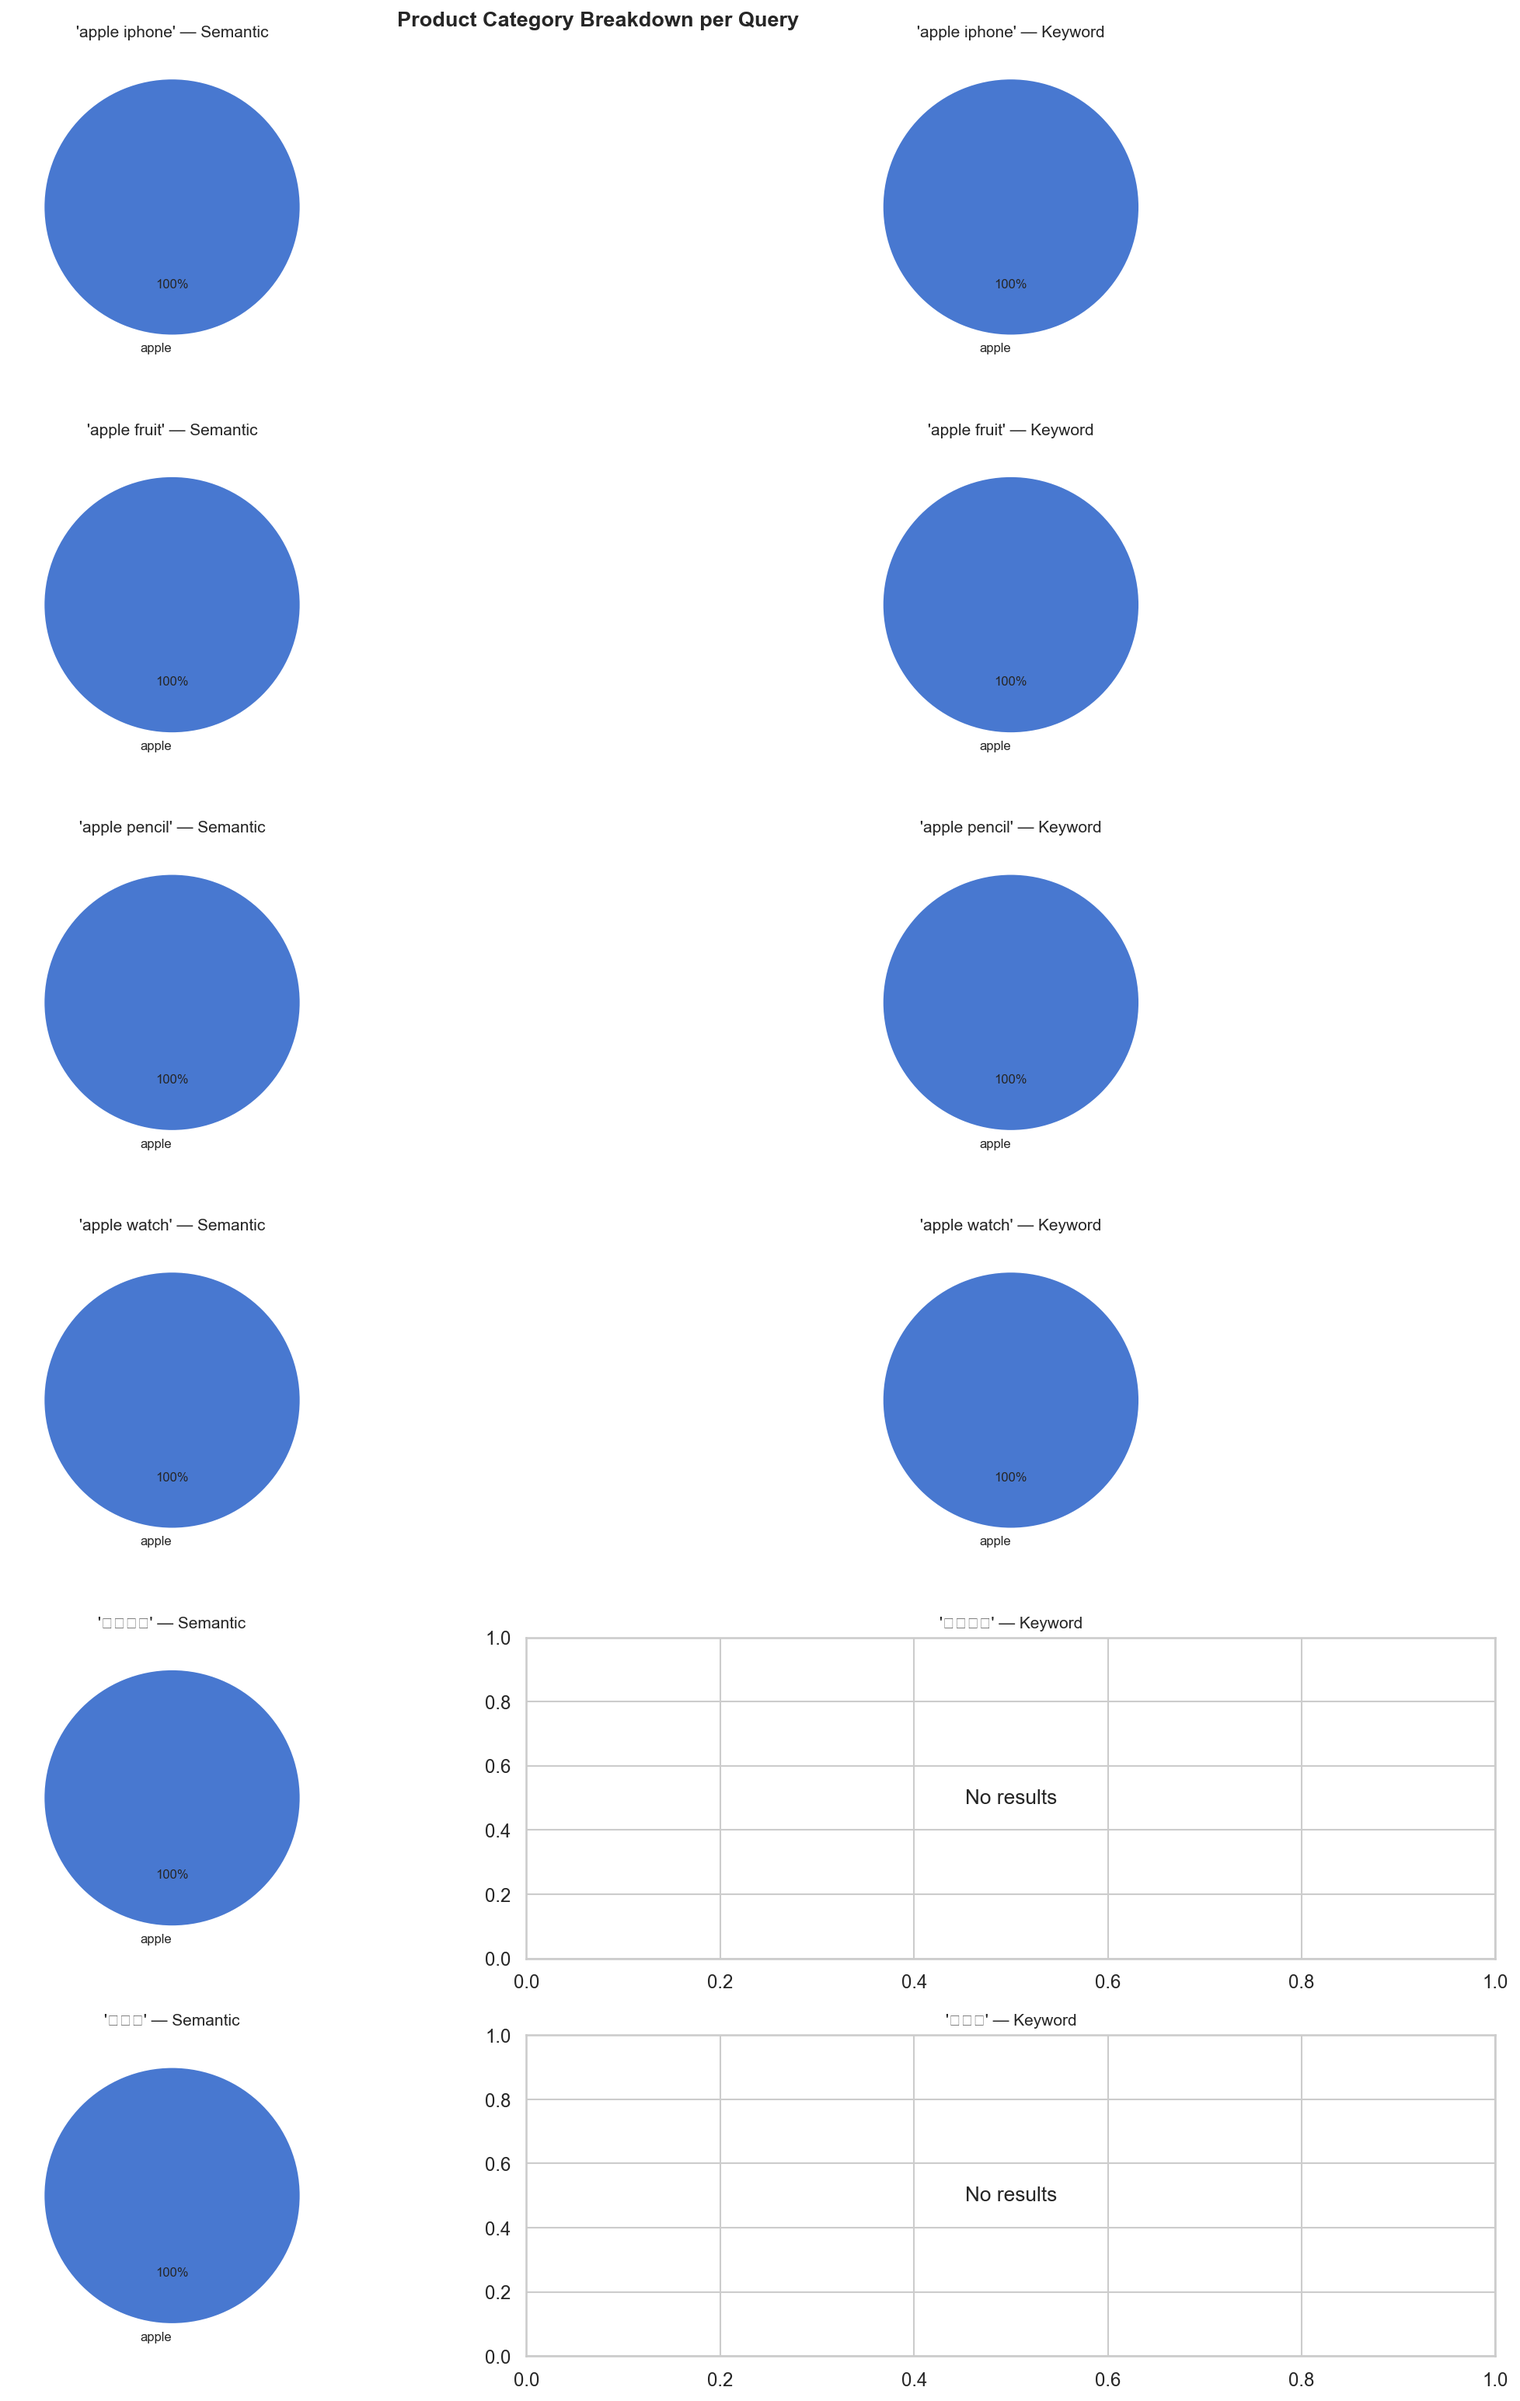
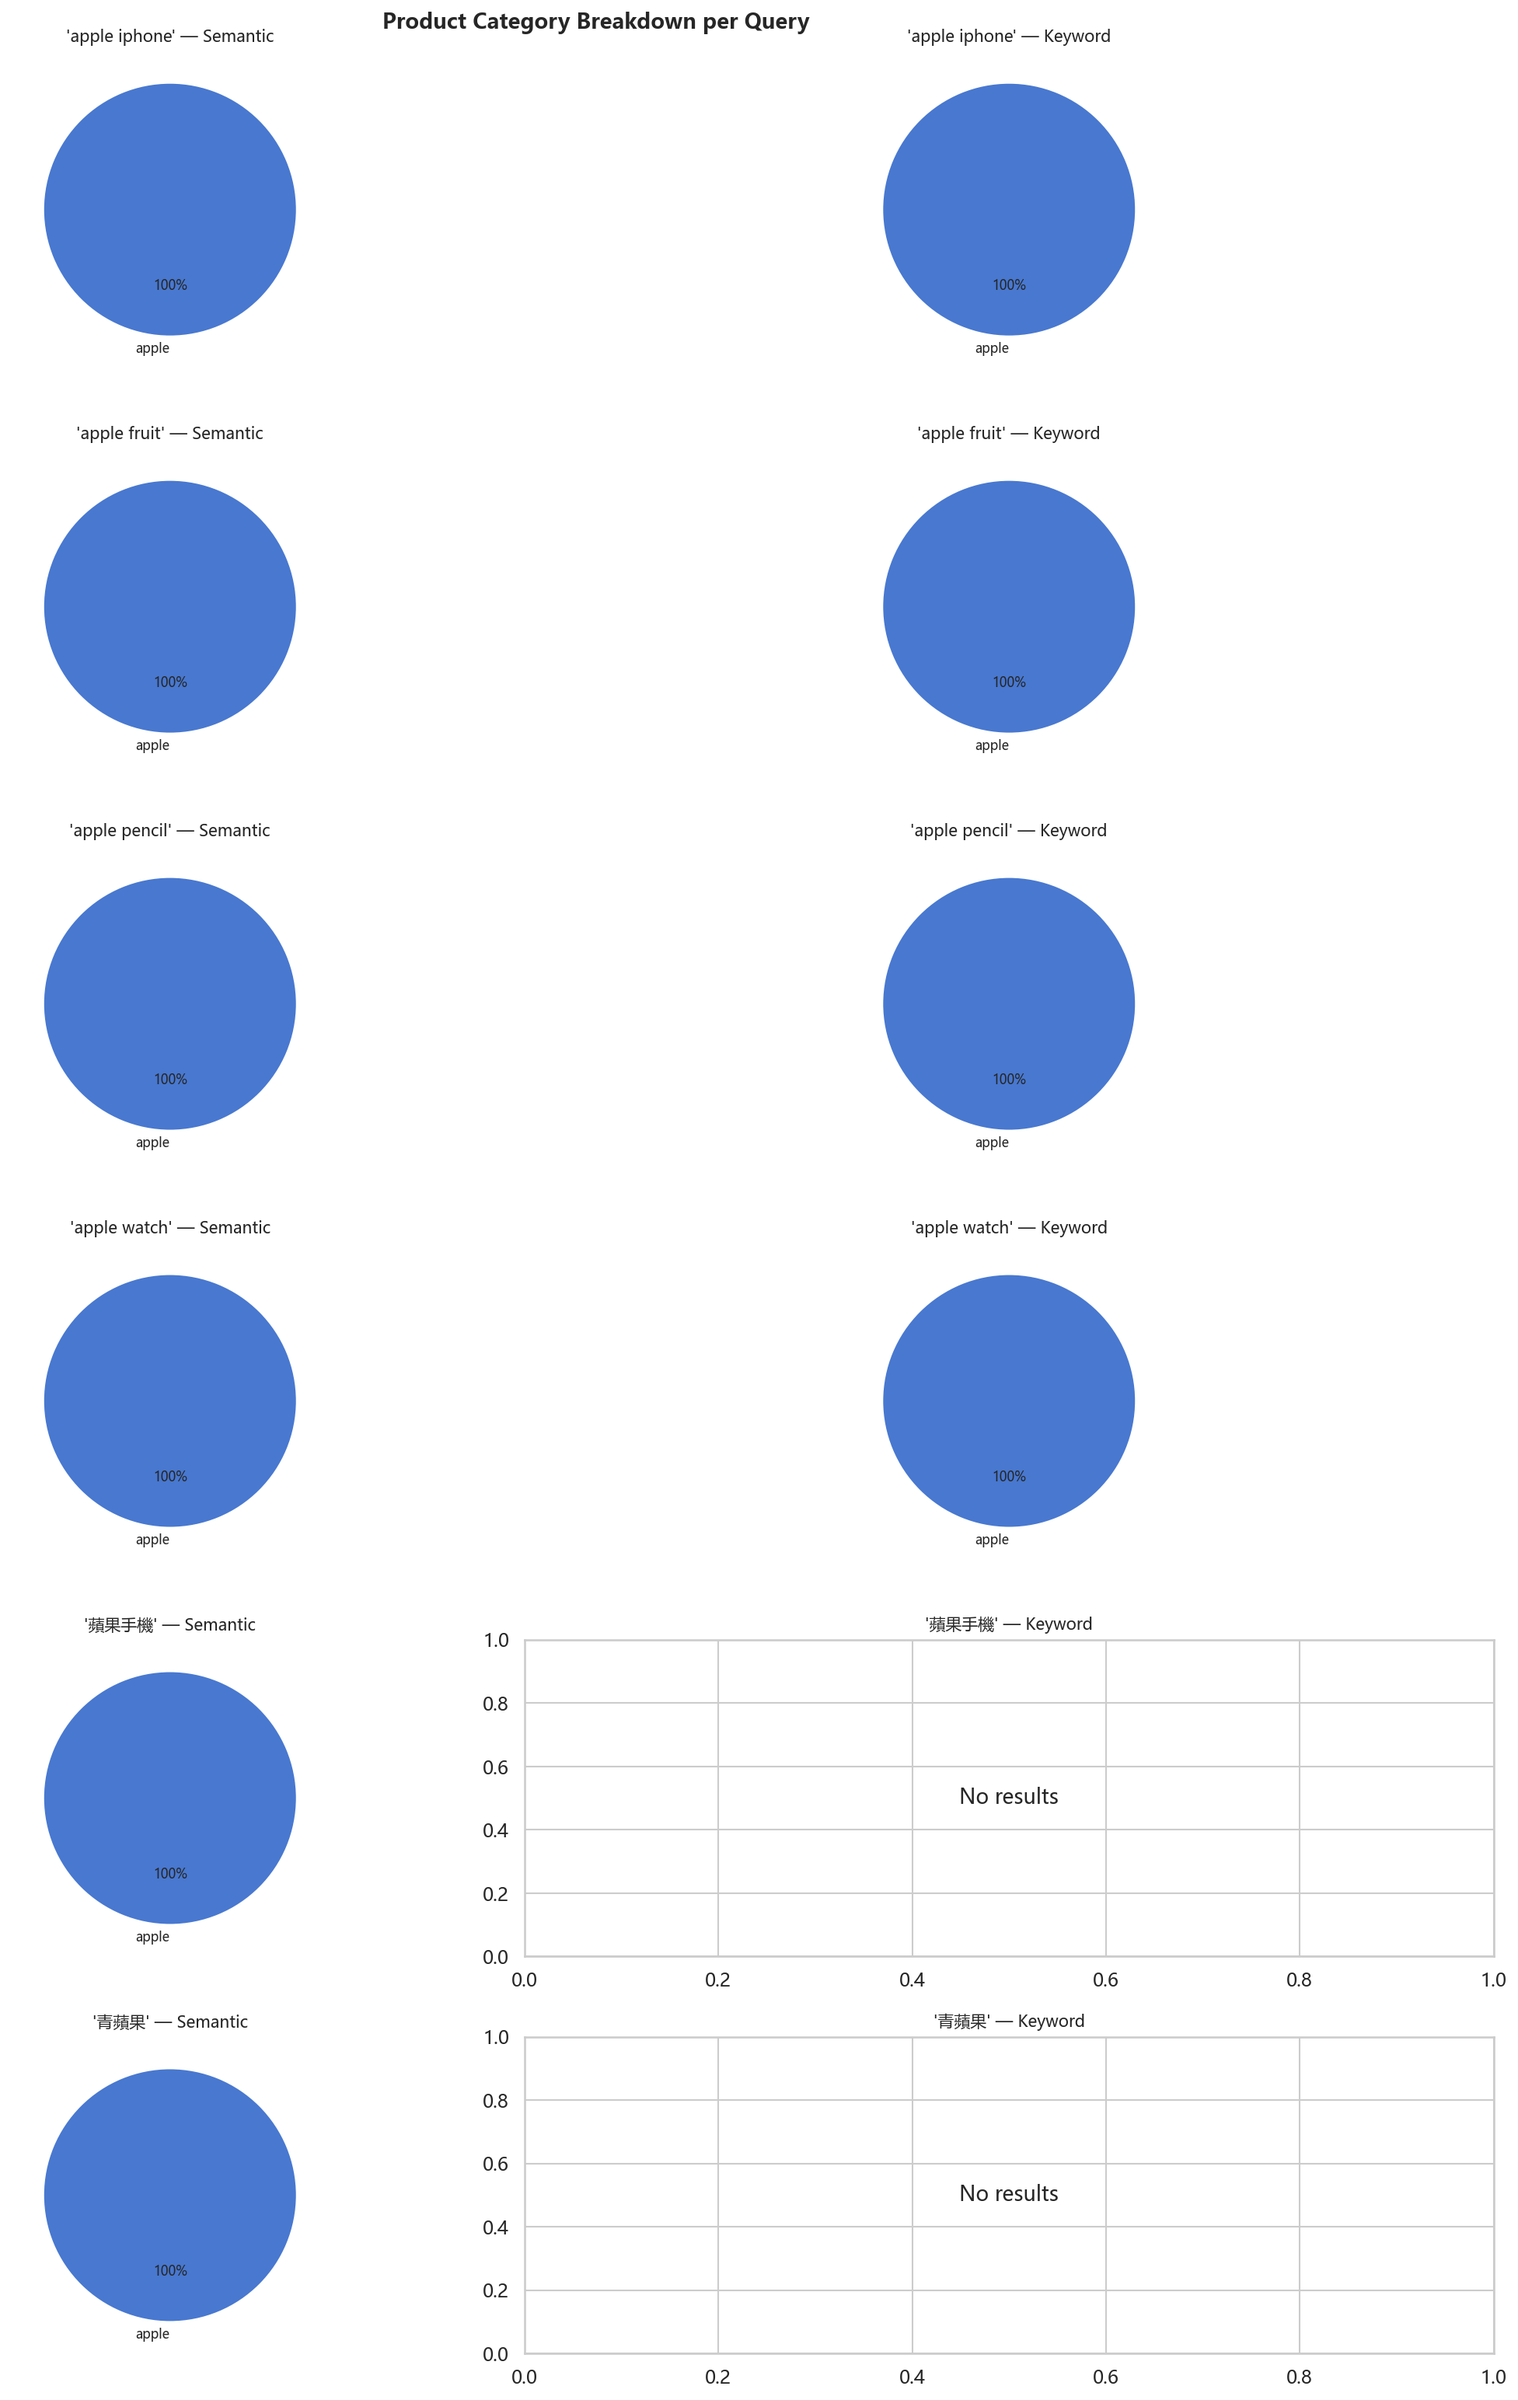
update visualization.py to render chinese character in graphs

diff --git a/src/evaluation/visualization.py b/src/evaluation/visualization.py
@@ -38,6 +38,15 @@ logger = setup_logger(__name__, log_file="logs/visualization.log")
 # Global style
 sns.set_theme(style="whitegrid", palette="muted", font_scale=1.05)
 plt.rcParams.update({"figure.dpi": 130, "savefig.dpi": 150})
+plt.rcParams["font.family"] = "sans-serif"
+plt.rcParams["font.sans-serif"] = [
+    "Microsoft YaHei",
+    "SimHei",
+    "Noto Sans CJK SC",
+    "Arial Unicode MS",
+    "sans-serif",
+]
+plt.rcParams["axes.unicode_minus"] = False
 
 
 # ── 1. Cluster overlap bar chart ──────────────────────────────────────── #
